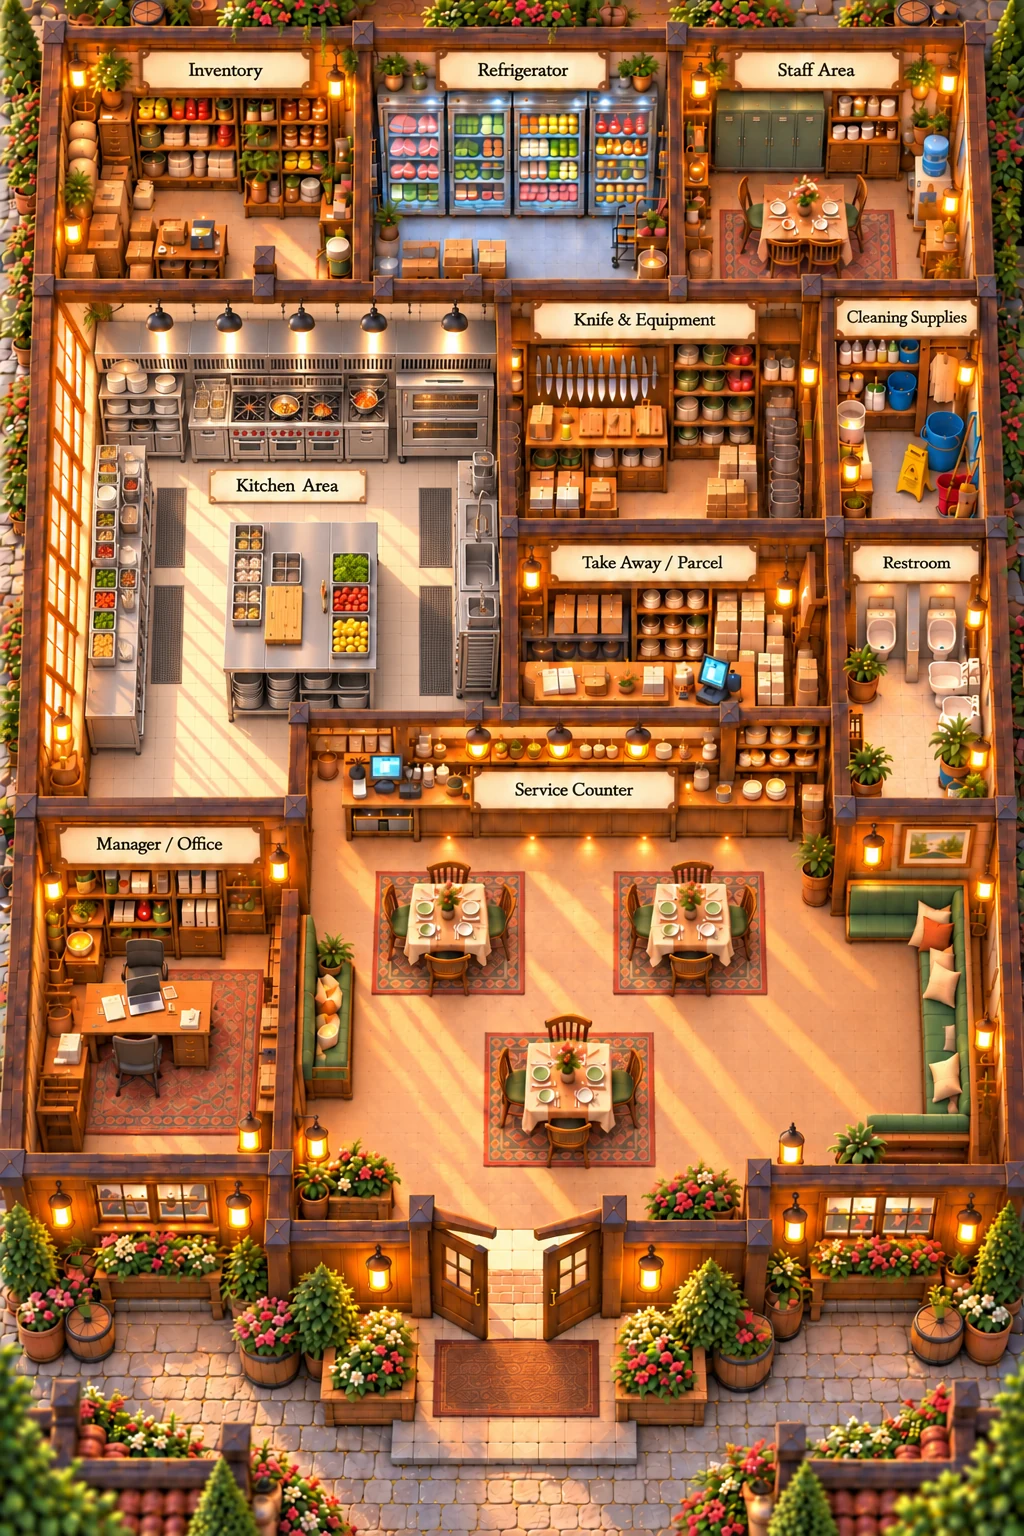
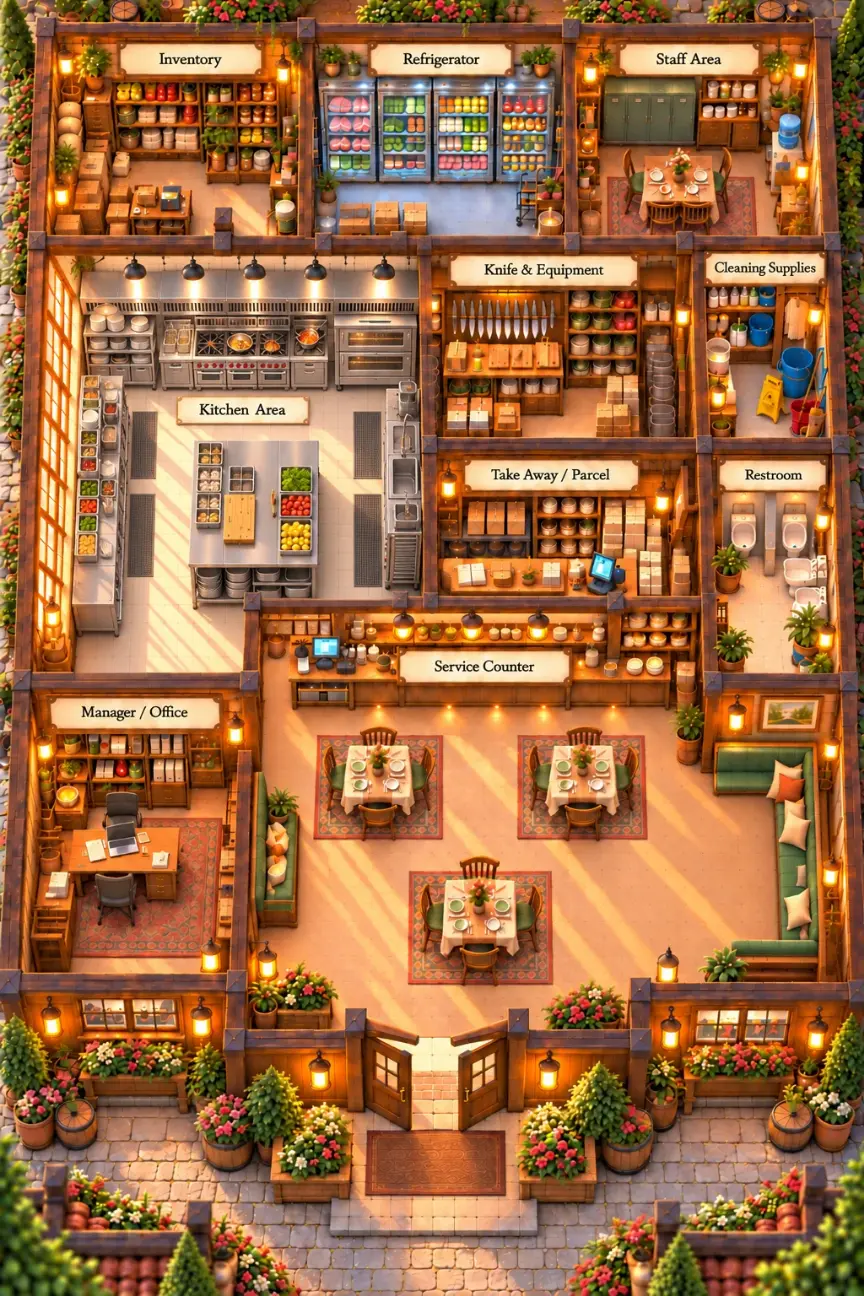
Fix Codex-branch bugs: type errors, lazy map, image size, asset path, audio test
- definitions.ts: drop the dead loop writing unlockLevel onto ingredients
  (not on the type, read nowhere); the first-use table stays in
  campaignSelection.ts.
- campaignMigration: optional progress maps are set only when present
  (exactOptionalPropertyTypes).
- The restaurant map joins the lazy restaurant chunk (was in startup JS);
  lazy-load-qa L1 counts four lazy screens.
- Dishwashing sink art used an absolute /dishwashing/ path (breaks under
  a sub-path host like Playgama): now BASE_URL + WebP. The two 2.6 MB PNGs
  became ~160 KB WebP; the map backdrops and banners were re-encoded at
  display size. Build 22 MB -> 15 MB.
- audio-qa: updated to the developer's new rule (Codex audio fix) — no
  sound or AudioContext before the first gesture (new S0); the rest of the
  suite runs after that gesture.

Claude-Session: https://claude.ai/code/session_01XymkLBr9FRwxM3Ai3o4adD

Changed region(s): [[0.5938, 0.0926, 0.625, 0.1235]]

diff --git a/src/game/levels/campaignMigration.ts b/src/game/levels/campaignMigration.ts
@@ -80,7 +80,9 @@ export function migrateCampaignProgress(progress: LevelProgress): LevelProgress 
     for (const level of LEVELS) completed.add(level.id);
   }
 
-  const completedLevelIds = LEVELS.filter((level) => completed.has(level.id)).map((level) => level.id);
+  const completedLevelIds = LEVELS.filter((level) => completed.has(level.id)).map(
+    (level) => level.id,
+  );
   const completedPrefix = (() => {
     let count = 0;
     while (count < LEVELS.length && completed.has(`level-${count + 1}`)) count += 1;
@@ -94,15 +96,20 @@ export function migrateCampaignProgress(progress: LevelProgress): LevelProgress 
     : null;
   const highestLevel = Math.min(LEVELS.length, Math.max(oldHighest ?? nextUnlocked, nextUnlocked));
 
-  return {
+  const next: LevelProgress = {
     ...progress,
     currentLevelId,
     highestUnlockedLevelId: `level-${highestLevel}`,
     completedLevelIds,
-    paidOrders: mapKeyed(progress.paidOrders),
-    tickets: mapKeyed(progress.tickets),
-    menuGuests: mapKeyed(progress.menuGuests),
-    emergency: mapKeyed(progress.emergency),
     campaignVersion: CAMPAIGN_PROGRESS_VERSION,
   };
+  const paidOrders = mapKeyed(progress.paidOrders);
+  const tickets = mapKeyed(progress.tickets);
+  const menuGuests = mapKeyed(progress.menuGuests);
+  const emergency = mapKeyed(progress.emergency);
+  if (paidOrders) next.paidOrders = paidOrders;
+  if (tickets) next.tickets = tickets;
+  if (menuGuests) next.menuGuests = menuGuests;
+  if (emergency) next.emergency = emergency;
+  return next;
 }

diff --git a/src/game/definitions.ts b/src/game/definitions.ts
@@ -12,10 +12,7 @@
  */
 import type { Axis } from "./CutGeometry";
 import type { OrganicProfile, ClusterLeaf } from "./ingredientShapes";
-import {
-  CAMPAIGN_150_INGREDIENT_FIRST_USE_LEVEL,
-  CAMPAIGN_150_TECHNIQUE_FIRST_USE_LEVEL,
-} from "./levels/campaignSelection";
+import { CAMPAIGN_150_TECHNIQUE_FIRST_USE_LEVEL } from "./levels/campaignSelection";
 
 export type TechniqueId =
   | "slice"
@@ -3475,10 +3472,6 @@ export const INGREDIENTS: Record<IngredientId, IngredientDefinition> = {
   },
 };
 
-for (const [id, unlockLevel] of Object.entries(CAMPAIGN_150_INGREDIENT_FIRST_USE_LEVEL)) {
-  const ingredient = INGREDIENTS[id as IngredientId];
-  if (ingredient) ingredient.unlockLevel = unlockLevel;
-}
 
 // KnifeStats/DEFAULT_KNIFE (Phase 8) — removed. The authoritative knife
 // shape is now KnifeDefinition (src/game/knives/knifeTypes.ts), populated

diff --git a/src/ScreensRouter.tsx b/src/ScreensRouter.tsx
@@ -39,7 +39,6 @@ import {
   type NavGuide,
 } from "@/components/kc/navLevel";
 import { attentionBadgesFor } from "@/game/restaurant/attentionBadges";
-import RestaurantMap from "@/components/kc/restaurantMap/RestaurantMapView";
 import type { Measure } from "@/game/business/measure";
 import type { BuyKnifeResult } from "@/game/knives/KnifeManager";
 import type { BuyBoardResult } from "@/game/boards/BoardManager";
@@ -58,6 +57,9 @@ const BusinessService = lazy(() =>
 );
 const InventoryScreen = lazy(() =>
   loadRestaurantScreens().then((m) => ({ default: m.InventoryScreen })),
+);
+const RestaurantMap = lazy(() =>
+  loadRestaurantScreens().then((m) => ({ default: m.RestaurantMap })),
 );
 
 /** Shown for the moment the Restaurant chunk takes to arrive: the screen's own frame, never a blank. */

diff --git a/src/components/kc/restaurantScreens.ts b/src/components/kc/restaurantScreens.ts
@@ -3,9 +3,10 @@
  * the back office (Overview · Equipment · Staff · Suppliers · Menu ·
  * Operations), the Restaurant Service counter and Inventory (with the
  * physical fridge). ScreensRouter loads it the first time the player opens
- * one of them, so the Kitchen, the Order Board and the Market never carry
+ * one of them (the restaurant map included), so the Kitchen, the Order Board and the Market never carry
  * the restaurant's UI. Routes, props and behaviour are unchanged.
  */
 export { BusinessDashboard } from "./business/BusinessDashboard";
 export { BusinessService } from "./business/BusinessService";
 export { InventoryScreen } from "./inventory/InventoryScreen";
+export { default as RestaurantMap } from "./restaurantMap/RestaurantMapView";

diff --git a/src/components/kc/business/DishwashingPrototype.tsx b/src/components/kc/business/DishwashingPrototype.tsx
@@ -1219,7 +1219,7 @@ export function DishwashingPrototype({
               aria-hidden="true"
               className="absolute inset-0 h-full w-full select-none"
               draggable={false}
-              src={afterClosing ? "/dishwashing/premium-sink-night.png" : "/dishwashing/premium-sink.png"}
+              src={`${import.meta.env.BASE_URL}dishwashing/premium-sink${afterClosing ? "-night" : ""}.webp`}
               style={{
                 position: "absolute",
                 inset: 0,
